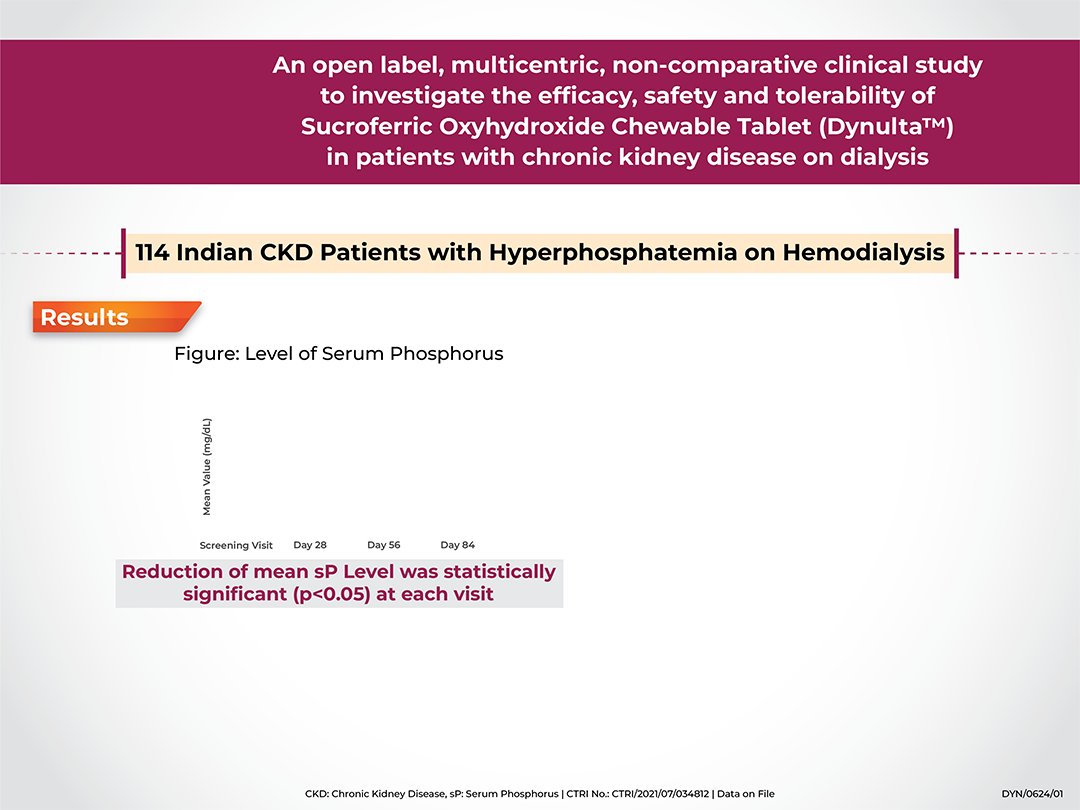
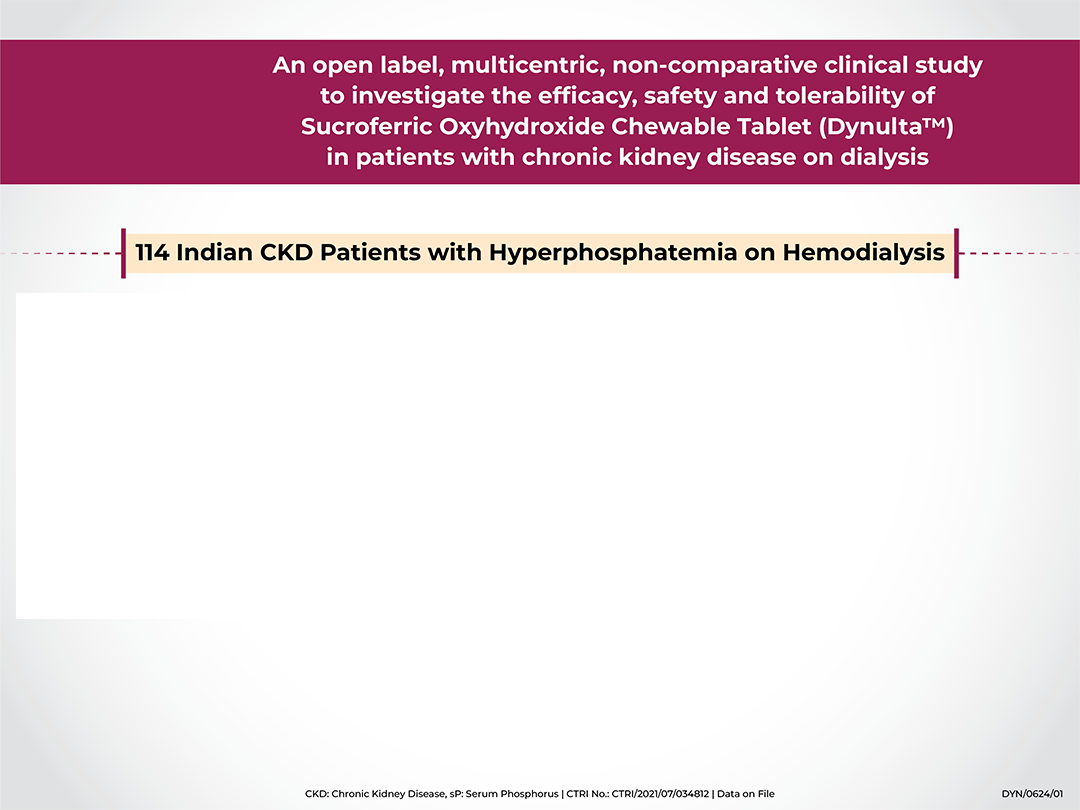
Dynulta

Changed region(s): [[0.0917, 0.6481, 0.5194, 0.7716], [0.0, 0.3704, 0.4583, 0.463], [0.1833, 0.5247, 0.2139, 0.6173]]

diff --git a/slide1/slide1.css b/slide1/slide1.css
@@ -16,7 +16,7 @@
   top: 12px;
   width: 200px;
   height: 200px;
-	animation: zoomIn 0.5s;
+	animation: none 0.5s;
 	animation-delay: 0.2s;
 	animation-fill-mode: both;
 	z-index: 5;
@@ -24,112 +24,12 @@
 
 .s3 {
 	position: absolute;
-  left: 215px;
-  top: 399px;
-  width: 42px;
-  height: 139px;
-	animation: revealVerticalRev 0.5s ease-in;
-	animation-delay: 1s;
-	animation-fill-mode: both;
-	clip: rect(150px,50px,150px,0px);
-	z-index: 5;
-}
-
-.s4 {
-	position: absolute;
-  left: 219px;
-  top: 378px;
-  width: 34px;
-  height: 13px;
-	animation: zoomIn 0.5s;
-	animation-delay: 1.5s;
-	animation-fill-mode: both;
-	z-index: 5;
-}
-
-.s5 {
-	position: absolute;
-  left: 289px;
-  top: 425px;
-  width: 42px;
-  height: 113px;
-	animation: revealVerticalRev 0.5s ease-in;
-	animation-delay: 1.5s;
-	animation-fill-mode: both;
-	clip: rect(150px,50px,150px,0px);
-	z-index: 5;
-}
-
-.s6 {
-	position: absolute;
-  left: 292px;
-  top: 404px;
-  width: 35px;
-  height: 13px;
-	animation: zoomIn 0.5s;
-	animation-delay: 2s;
-	animation-fill-mode: both;
-	z-index: 5;
-}
-
-.s7 {
-	position: absolute;
-  left: 362px;
-  top: 448px;
-  width: 43px;
-  height: 90px;
-	animation: revealVerticalRev 0.5s ease-in;
-	animation-delay: 2s;
-	animation-fill-mode: both;
-	clip: rect(150px,50px,150px,0px);
-	z-index: 5;
-}
-
-.s8 {
-	position: absolute;
-  left: 366px;
-  top: 429px;
-  width: 35px;
-  height: 13px;
-	animation: zoomIn 0.5s;
-	animation-delay: 2.5s;
-	animation-fill-mode: both;
-	z-index: 5;
-}
-
-.s9 {
-	position: absolute;
-  left: 436px;
-  top: 464px;
-  width: 43px;
-  height: 74px;
-	animation: revealVerticalRev 0.5s ease-in;
-	animation-delay: 2.5s;
-	animation-fill-mode: both;
-	clip: rect(150px,50px,150px,0px);
-	z-index: 5;
-}
-
-.s10wrap {
-	position: absolute;
-  left: 442px;
-  top: 447px;
-  width: 31px;
-  height: 13px;
-	animation: flash 2s infinite;
-	animation-delay: 7s;
-	animation-fill-mode: both;
-	z-index: 5;
-}
-
-.s10 {
-	position: absolute;
-  left: 0px;
-  top: 0px;
-  width: 31px;
-  height: 13px;
-	animation: zoomIn 0.5s;
-	animation-delay: 3s;
+  left: 24px;
+  top: 296px;
+  width: 542px;
+  height: 313px;
+	animation: fadeInLeft 0.5s;
+	animation-delay: 0.2s;
 	animation-fill-mode: both;
 	z-index: 5;
 }
@@ -141,7 +41,7 @@
   width: 364px;
   height: 65px;
 	animation: fadeInRight 0.5s;
-	animation-delay: 4s;
+	animation-delay: 1.2s;
 	animation-fill-mode: both;
 	z-index: 5;
 }
@@ -153,7 +53,7 @@
   width: 367px;
   height: 65px;
 	animation: fadeInRight 0.5s;
-	animation-delay: 4.3s;
+	animation-delay: 1.5s;
 	animation-fill-mode: both;
 	z-index: 5;
 }
@@ -165,7 +65,7 @@
   width: 301px;
   height: 65px;
 	animation: fadeInRight 0.5s;
-	animation-delay: 4.6s;
+	animation-delay: 1.8s;
 	animation-fill-mode: both;
 	z-index: 5;
 }
@@ -177,7 +77,7 @@
   width: 186px;
   height: 45px;
 	animation: fadeInRight 0.5s;
-	animation-delay: 5.7s;
+	animation-delay: 2.8s;
 	animation-fill-mode: both;
 	z-index: 5;
 }
@@ -189,7 +89,7 @@
   width: 796px;
   height: 97px;
 	animation: fadeInLeft 0.5s;
-	animation-delay: 5.7s;
+	animation-delay: 2.8s;
 	animation-fill-mode: both;
 	z-index: 5;
 }
@@ -201,7 +101,7 @@
   width: 192px;
   height: 87px;
 	animation: zoomIn 0.5s;
-	animation-delay: 6.5s;
+	animation-delay: 3.5s;
 	animation-fill-mode: both;
 	z-index: 5;
 }
@@ -213,7 +113,7 @@
   width: 194px;
   height: 41px;
 	animation: zoomIn 0.5s;
-	animation-delay: 6.7s;
+	animation-delay: 3.7s;
 	animation-fill-mode: both;
 	z-index: 5;
 }

diff --git a/global.js b/global.js
@@ -283,7 +283,7 @@ function set_pg_content(pg_id) {
 	var selectedContentPath = '';
 	switch (pg_id) {
 		case 1:
-		content = '<link rel="stylesheet" type="text/css" href="slide1/slide1.css" media="screen"/><div class="s1"><img src="slide1/s1.png" width="1080" height="810" alt=""/></div><div class="s2"><img src="slide1/s2.png"/></div><div class="s3"><img src="slide1/s3.png"/></div><div class="s4"><img src="slide1/s4.png"/></div><div class="s5"><img src="slide1/s5.png"/></div><div class="s6"><img src="slide1/s6.png"/></div><div class="s7"><img src="slide1/s7.png"/></div><div class="s8"><img src="slide1/s8.png"/></div><div class="s9"><img src="slide1/s9.png"/></div><div class="s10wrap"><div class="s10"><img src="slide1/s10.png"/></div></div><div class="s11"><img src="slide1/s11.png"/></div><div class="s12"><img src="slide1/s12.png"/></div><div class="s13"><img src="slide1/s13.png"/></div><div class="s14"><img src="slide1/s14.png"/></div><div class="s15"><img src="slide1/s15.png"/></div><div class="s16"><img src="slide1/s16.png"/></div><div class="s17"><img src="slide1/s17.gif"/></div>';
+		content = '<link rel="stylesheet" type="text/css" href="slide1/slide1.css" media="screen"/><div class="s1"><img src="slide1/s1.png" width="1080" height="810" alt=""/></div><div class="s2"><img src="slide1/s2.png"/></div><div class="s3"><img src="slide1/s3.png"/></div><div class="s11"><img src="slide1/s11.png"/></div><div class="s12"><img src="slide1/s12.png"/></div><div class="s13"><img src="slide1/s13.png"/></div><div class="s14"><img src="slide1/s14.png"/></div><div class="s15"><img src="slide1/s15.png"/></div><div class="s16"><img src="slide1/s16.png"/></div><div class="s17"><img src="slide1/s17.gif"/></div>';
 		break;
 	}
 

diff --git a/index.html b/index.html
@@ -48,7 +48,7 @@
 
 
 
-      $("#main_content").html('<link rel="stylesheet" type="text/css" href="slide1/slide1.css" media="screen"/><div class="s1"><img src="slide1/s1.png" width="1080" height="810" alt=""/></div><div class="s2"><img src="slide1/s2.png"/></div><div class="s3"><img src="slide1/s3.png"/></div><div class="s4"><img src="slide1/s4.png"/></div><div class="s5"><img src="slide1/s5.png"/></div><div class="s6"><img src="slide1/s6.png"/></div><div class="s7"><img src="slide1/s7.png"/></div><div class="s8"><img src="slide1/s8.png"/></div><div class="s9"><img src="slide1/s9.png"/></div><div class="s10wrap"><div class="s10"><img src="slide1/s10.png"/></div></div><div class="s11"><img src="slide1/s11.png"/></div><div class="s12"><img src="slide1/s12.png"/></div><div class="s13"><img src="slide1/s13.png"/></div><div class="s14"><img src="slide1/s14.png"/></div><div class="s15"><img src="slide1/s15.png"/></div><div class="s16"><img src="slide1/s16.png"/></div><div class="s17"><img src="slide1/s17.gif"/></div>');
+      $("#main_content").html('<link rel="stylesheet" type="text/css" href="slide1/slide1.css" media="screen"/><div class="s1"><img src="slide1/s1.png" width="1080" height="810" alt=""/></div><div class="s2"><img src="slide1/s2.png"/></div><div class="s3"><img src="slide1/s3.png"/></div><div class="s11"><img src="slide1/s11.png"/></div><div class="s12"><img src="slide1/s12.png"/></div><div class="s13"><img src="slide1/s13.png"/></div><div class="s14"><img src="slide1/s14.png"/></div><div class="s15"><img src="slide1/s15.png"/></div><div class="s16"><img src="slide1/s16.png"/></div><div class="s17"><img src="slide1/s17.gif"/></div>');
 
     });
   </script>
